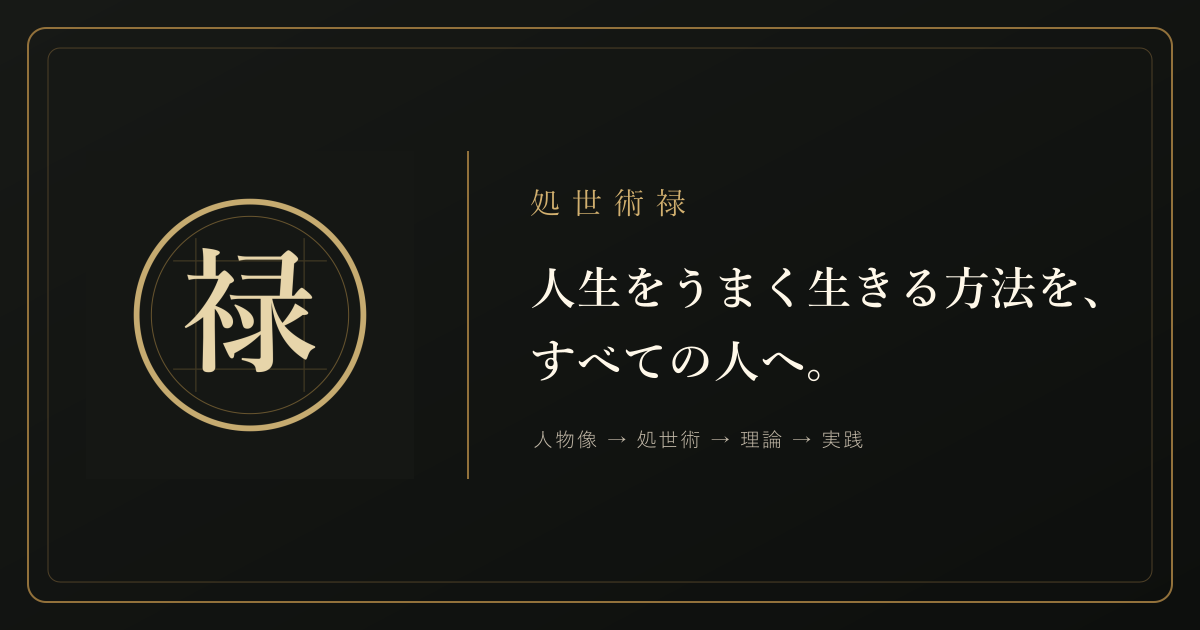
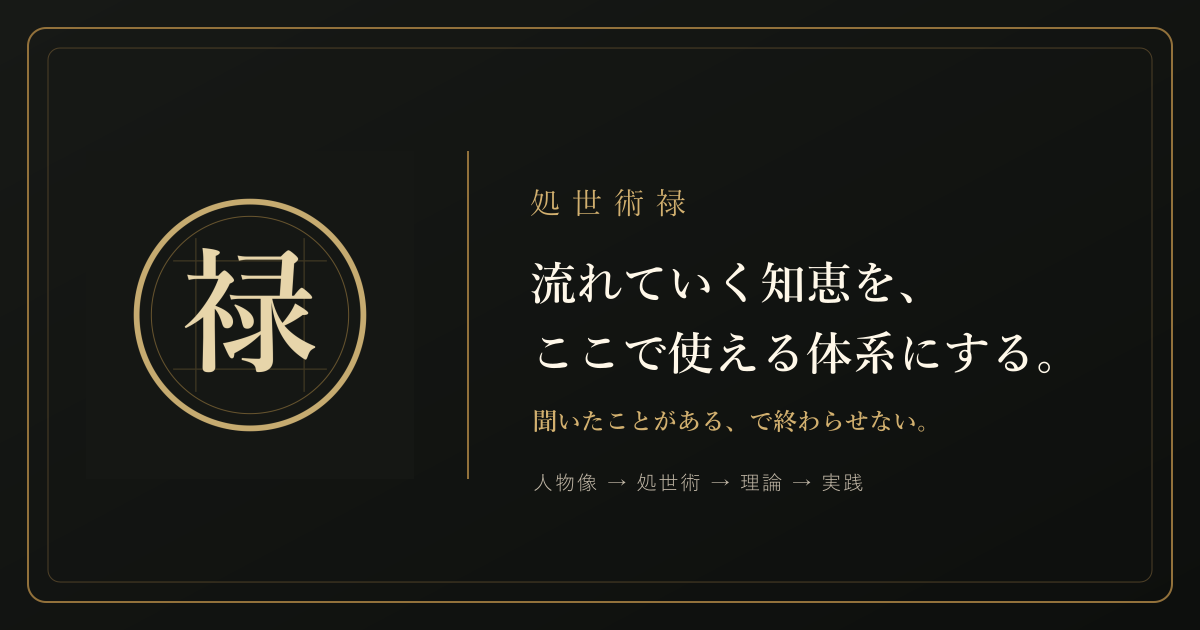
タブ切り替えUXと『処世術とは』SEOを改善 (#103)
* feat: refine tab motion and shoseijutsu SEO

* test: align welcome checks with new copy

---------

diff --git a/src/app/about/shoseijutsu.tsx b/src/app/about/shoseijutsu.tsx
@@ -1,4 +1,4 @@
-import { useRouter } from 'expo-router';
+import { Link, useRouter, type Href } from 'expo-router';
 import { Pressable, StyleSheet, View } from 'react-native';
 import { AppText, Screen } from '@/components/ui';
 import { SeoBreadcrumbs } from '@/components/seo-breadcrumbs';
@@ -6,9 +6,8 @@ import { colors, fonts } from '@/constants/theme';
 
 const chapters = [
   {
-    title: '処世術とは',
+    title: '処世術の意味',
     paragraphs: [
-      '処世術とは、社会の中で人や状況とうまく関わりながら、自分の目的や生活を成り立たせていくための知恵や方法のことです。',
       '「処世」は世の中で暮らしていくこと、「術」はそのための方法や技術を意味します。',
       '一般には、人間関係の築き方、コミュニケーション、仕事での立ち回り、感情のコントロール、失敗への対処、適切な距離の取り方など、社会生活を円滑にする幅広い知恵を指します。',
       '処世術という言葉には、ときに「要領よく立ち回る」「世渡りをする」といった意味合いもあります。しかし、本来扱える範囲はそれだけではありません。',
@@ -50,6 +49,13 @@ const pillars = [
   ['05', '何度でも使える', 'SNSや動画で偶然知った知識は、その場では納得しても、必要なときには思い出せないことがあります。処世術禄は、知識を一度消費して終わるものではなく、判断に迷ったときに何度でも戻ってこられる形で残します。必要なときに探し、読み返し、自分の判断に使う。流れて消える知識ではなく、蓄積される知恵にする。それが、処世術禄の役割です。'],
 ] as const;
 
+const learningPaths = [
+  { title: '人間関係の処世術', description: '会話・信頼・距離感を整える', href: '/interpersonal' },
+  { title: '仕事の処世術', description: '評価・合意・実行を成果につなげる', href: '/work' },
+  { title: '人生の処世術', description: '選択・不安・立て直しの軸を持つ', href: '/life' },
+  { title: '処世術を支える理論', description: '心理学・行動科学などから理解する', href: '/theories' },
+] as const satisfies ReadonlyArray<{ title: string; description: string; href: Href }>;
+
 const principles = [
   ['01', '処世術は好かれない', 'メタ発言抑制', '処世術そのものを過度に語ったり、「自分はこういう技術を使っている」とメタに説明した瞬間、自然な関係性や信頼が崩れることがある。処世術は思想として誇示するものではなく、必要な場面で静かに使うためのもの、という意味です。'],
   ['02', '処世術は万能ではない', 'コンテクスト依存性', '一つの方法を絶対視しないことが必要です。相手、場面、立場、力関係、時間軸、文化、目的が変われば、同じ行動でも意味や結果が変わります。処世術禄が「唯一の正解」を提示しないのは、そのためです。'],
@@ -71,16 +77,15 @@ export default function ShoseijutsuAboutScreen() {
   return (
     <Screen contentContainerStyle={styles.screenContent}>
       <View style={styles.article}>
-        <SeoBreadcrumbs items={[{ label: 'ホーム', href: '/' }, { label: '処世術禄について' }]} />
+        <SeoBreadcrumbs items={[{ label: 'ホーム', href: '/' }, { label: '処世術とは' }]} />
 
         <View style={styles.hero}>
-          <AppText style={styles.kicker}>処世術禄について</AppText>
-          <AppText accessibilityRole="header" style={styles.heroTitle}>人生をうまく生きる方法を、すべての人へ。</AppText>
-          <Paragraph>人生には、学校では教わらないことが多くあります。人との距離の取り方。信頼の築き方。仕事の進め方。失敗との付き合い方。自分自身の扱い方。</Paragraph>
-          <Paragraph>私たちは、こうした知恵を「なんとなく分かっていること」のまま流してしまいます。</Paragraph>
-          <Paragraph>処世術禄は、それらを集め、整理し、理論と結びつけ、必要なときに取り出して使える知恵へ変えるための場所です。</Paragraph>
-          <Paragraph emphasis>聞いたことがある、で終わらせない。</Paragraph>
-          <Paragraph>流れて消える人生の知識を、何度でも使える知恵に変える。それが、処世術禄の役割です。</Paragraph>
+          <AppText style={styles.kicker}>意味・必要性・身につけ方</AppText>
+          <AppText accessibilityRole="header" aria-level={1} style={styles.heroTitle}>処世術とは</AppText>
+          <AppText style={styles.heroDefinition}>処世術とは、社会の中で人や状況とうまく関わりながら、自分の目的や生活を成り立たせていくための知恵や方法のことです。</AppText>
+          <Paragraph>人間関係、コミュニケーション、仕事での立ち回り、感情のコントロール、失敗への対処など、社会生活をよりよくする幅広い知恵を含みます。</Paragraph>
+          <Paragraph emphasis>流れていく知恵を、ここで使える体系にする。</Paragraph>
+          <Paragraph>聞いたことがある、で終わらせない。処世術禄は、散らばった知恵を整理し、必要なときに取り出して使える形へ変える場所です。</Paragraph>
         </View>
 
         {chapters.map((chapter) => (
@@ -91,6 +96,24 @@ export default function ShoseijutsuAboutScreen() {
             <Paragraph>{chapter.closing}</Paragraph>
           </View>
         ))}
+
+        <View style={styles.chapter}>
+          <Heading>場面別に処世術を学ぶ</Heading>
+          <Paragraph>処世術は、置かれた場面によって使い方が変わります。今の課題に近い入口から、具体的な方法とその背景にある理論をたどれます。</Paragraph>
+          <View style={styles.learningLinks}>
+            {learningPaths.map((item) => (
+              <Link key={item.href} href={item.href} asChild>
+                <Pressable accessibilityRole="link" style={({ pressed }) => [styles.learningLink, pressed && styles.pressed]}>
+                  <View style={styles.learningLinkCopy}>
+                    <AppText style={styles.learningLinkTitle}>{item.title}</AppText>
+                    <AppText style={styles.learningLinkDescription}>{item.description}</AppText>
+                  </View>
+                  <AppText style={styles.learningLinkArrow}>›</AppText>
+                </Pressable>
+              </Link>
+            ))}
+          </View>
+        </View>
 
         <View style={styles.chapter}>
           <Heading>なぜ、処世術禄なのか</Heading>
@@ -152,8 +175,8 @@ export default function ShoseijutsuAboutScreen() {
           <Paragraph>状況を見て、考え、自分で選べることです。</Paragraph>
           <Paragraph>処世術禄が作ろうとしているのは、いわば人生をうまく生きるための思考のOSです。</Paragraph>
           <Paragraph>判断に迷ったとき、戻ってこられる場所。必要な知恵を探し、なぜそうするのかまで理解できる場所。</Paragraph>
-          <Paragraph emphasis>人生をうまく生きる方法を、すべての人へ。</Paragraph>
-          <Paragraph>処世術禄は、そのための知恵を編み続けます。</Paragraph>
+          <Paragraph emphasis>流れていく知恵を、ここで使える体系にする。</Paragraph>
+          <Paragraph>聞いたことがある、で終わらせない。処世術禄は、そのための知恵を編み続けます。</Paragraph>
         </View>
 
         <View style={styles.chapter}>
@@ -183,6 +206,7 @@ const styles = StyleSheet.create({
   hero: { paddingTop: 18, paddingBottom: 34, borderBottomWidth: 1, borderBottomColor: colors.line },
   kicker: { color: colors.gold, fontFamily: fonts.sans, fontSize: 12, lineHeight: 20, letterSpacing: 2.2, fontWeight: '700' },
   heroTitle: { marginTop: 18, marginBottom: 28, color: colors.ink, fontFamily: fonts.serif, fontSize: 32, lineHeight: 48, fontWeight: '700' },
+  heroDefinition: { marginBottom: 22, color: colors.ink, fontFamily: fonts.serif, fontSize: 20, lineHeight: 36, fontWeight: '700' },
   chapter: { paddingTop: 58, paddingBottom: 10 },
   h2: { marginBottom: 22, color: colors.ink, fontFamily: fonts.serif, fontSize: 25, lineHeight: 36, fontWeight: '700' },
   h3: { marginTop: 2, marginBottom: 10, color: colors.ink, fontFamily: fonts.serif, fontSize: 20, lineHeight: 30, fontWeight: '700' },
@@ -197,6 +221,12 @@ const styles = StyleSheet.create({
   concept: { marginBottom: 14, color: colors.gold, fontFamily: fonts.sans, fontSize: 12, lineHeight: 19, letterSpacing: 1.1 },
   motto: { marginTop: 28, paddingVertical: 23, borderTopWidth: 1, borderBottomWidth: 1, borderColor: colors.gold },
   mottoText: { color: colors.ink, fontFamily: fonts.serif, fontSize: 18, lineHeight: 32, letterSpacing: 1.6, textAlign: 'center' },
+  learningLinks: { marginTop: 14, borderTopWidth: 1, borderTopColor: colors.line },
+  learningLink: { minHeight: 82, paddingVertical: 16, paddingHorizontal: 2, flexDirection: 'row', alignItems: 'center', borderBottomWidth: 1, borderBottomColor: colors.line },
+  learningLinkCopy: { flex: 1, minWidth: 0, paddingRight: 18 },
+  learningLinkTitle: { color: colors.ink, fontFamily: fonts.serif, fontSize: 18, lineHeight: 28, fontWeight: '700' },
+  learningLinkDescription: { marginTop: 3, color: colors.inkSoft, fontFamily: fonts.sans, fontSize: 14, lineHeight: 22 },
+  learningLinkArrow: { color: colors.gold, fontFamily: fonts.serif, fontSize: 30, lineHeight: 34 },
   notice: { marginTop: 52, paddingTop: 28, borderTopWidth: 1, borderTopColor: colors.line },
   noticeParagraph: { fontSize: 14, lineHeight: 25 },
   settingsLink: { alignSelf: 'flex-start', marginTop: 32, paddingVertical: 10, paddingHorizontal: 2 },

diff --git a/src/components/seo-meta.tsx b/src/components/seo-meta.tsx
@@ -7,8 +7,8 @@ import { getTheorySeoCopy, isLockedTheoryShell } from '@/data/theory-display';
 
 const siteUrl = 'https://app.shoseijutsuroku.com';
 const brand = '処世術禄';
-const homeTitle = '処世術禄｜人生をうまく生きる方法を、すべての人へ。';
-const homeDescription = '聞いたことがある、で終わらせない。心理学・行動科学などの理論と紐づけ、体系化した処世術を、人生・仕事・人間関係に使える知恵として届けます。';
+const homeTitle = '処世術禄｜処世術を人生・仕事・人間関係に使える体系へ';
+const homeDescription = '処世術を、人間関係・仕事・人生で使える知恵へ。心理学・行動科学などの理論と結びつけ、流れていく知恵を何度でも使える体系として届けます。';
 const image = `${siteUrl}/og.png`;
 
 type PageMeta = {
@@ -37,7 +37,7 @@ const fixed: Record<string, [string, string, boolean]> = {
   '/life': ['人生術｜不安・選択・立て直しを整える処世術', '選択、習慣、不安、回復、人生設計まで、日々の判断を整える処世術を人物像から体系的に探せます。', true],
   '/app': ['処世術禄アプリ｜知恵を、迷ったときに使える判断へ', '処世術禄のiOSアプリは、処世術と理論を保存・学習・ケース問題で自分の判断にしていくためのアプリです。', true],
   '/learn': ['場面から処世術を学ぶ', '人間関係・仕事・人生の具体的な場面から一手を選び、処世術と理論を実践につなげて学べます。', true],
-  '/about/shoseijutsu': ['処世術とは？意味・考え方と処世術禄の五大原則', '処世術とは、人生・仕事・人間関係をよりよく生きるための知恵と方法です。処世術の意味や必要性、処世術禄が有効な理由、五大原則、知識を使える判断原則へ変える思想を紹介します。', true],
+  '/about/shoseijutsu': ['処世術とは｜意味・必要性・身につけ方をわかりやすく解説', '処世術とは、社会の中で人や状況とうまく関わり、自分の目的や生活を成り立たせるための知恵や方法です。言葉の意味、人を操る技術との違い、必要性、身につけ方を具体例とともに解説します。', true],
   '/legal/about': ['処世術禄について', '処世術禄についての新しいページへ移動します。', false],
   '/legal/faq': ['よくある質問', '処世術禄の使い方、無料版と完全版、データの保存や利用環境についてのよくある質問です。', true],
 };
@@ -66,14 +66,14 @@ function getMeta(rawPathname: string): PageMeta {
   };
   if (pathname === '/about/shoseijutsu') return {
     ...fallback,
-    title: '処世術とは？意味・考え方と処世術禄の五大原則｜処世術禄',
-    description: '処世術とは、人生・仕事・人間関係をよりよく生きるための知恵と方法です。処世術の意味や必要性、処世術禄が有効な理由、五大原則、知識を使える判断原則へ変える思想を紹介します。',
+    title: '処世術とは｜意味・必要性・身につけ方をわかりやすく解説｜処世術禄',
+    description: '処世術とは、社会の中で人や状況とうまく関わり、自分の目的や生活を成り立たせるための知恵や方法です。言葉の意味、人を操る技術との違い、必要性、身につけ方を具体例とともに解説します。',
     indexable: true,
     type: 'article',
     pageType: 'Article',
     canonicalPath: pathname,
-    entity: { headline: '処世術とは？意味・考え方と処世術禄の五大原則', description: '処世術の意味・必要性と、処世術禄の思想を紹介します。', about: ['処世術', '処世術禄', '人生', '人間関係', '仕事'] },
-    crumbs: [crumb('ホーム', '/'), crumb('処世術禄について', pathname)],
+    entity: { headline: '処世術とは｜意味・必要性・身につけ方', description: '処世術の意味、人を操る技術との違い、必要性、身につけ方を解説します。', about: ['処世術', '世渡り', '人間関係', '仕事', '人生'] },
+    crumbs: [crumb('ホーム', '/'), crumb('処世術とは', pathname)],
   };
   if (pathname === '/legal/about') return {
     ...fallback,
@@ -139,7 +139,8 @@ function setJsonLd(meta: PageMeta) {
     { '@type': 'BreadcrumbList', '@id': `${url}#breadcrumb`, itemListElement: meta.crumbs.map((item, index) => ({ '@type': 'ListItem', position: index + 1, name: item.name, item: canonical(item.path) })) },
   ];
   if (meta.entity && meta.pageType === 'CreativeWork') graph.push({ '@type': 'CreativeWork', '@id': `${url}#creativework`, headline: meta.entity.headline, description: meta.entity.description, inLanguage: 'ja', about: meta.entity.about, isPartOf: { '@id': `${siteUrl}/#website` } });
-  if (meta.entity && meta.pageType === 'Article') graph.push({ '@type': 'Article', '@id': `${url}#article`, headline: meta.entity.headline, description: meta.entity.description, inLanguage: 'ja', about: meta.entity.about, mainEntityOfPage: { '@id': `${url}#webpage` }, publisher: { '@id': `${siteUrl}/#organization` } });
+  if (meta.entity && meta.pageType === 'Article') graph.push({ '@type': 'Article', '@id': `${url}#article`, headline: meta.entity.headline, description: meta.entity.description, inLanguage: 'ja', about: meta.canonicalPath === '/about/shoseijutsu' ? { '@id': `${url}#term` } : meta.entity.about, dateModified: meta.canonicalPath === '/about/shoseijutsu' ? '2026-09-22' : undefined, mainEntityOfPage: { '@id': `${url}#webpage` }, publisher: { '@id': `${siteUrl}/#organization` } });
+  if (meta.canonicalPath === '/about/shoseijutsu') graph.push({ '@type': 'DefinedTerm', '@id': `${url}#term`, url, name: '処世術', alternateName: ['世渡り術', '処世の知恵'], description: '社会の中で人や状況とうまく関わりながら、自分の目的や生活を成り立たせていくための知恵や方法。' });
   if (meta.canonicalPath === '/app') graph.push({ '@type': 'SoftwareApplication', '@id': `${url}#software`, name: '処世術禄', applicationCategory: 'LifestyleApplication', operatingSystem: 'iOS', url, installUrl: 'https://apps.apple.com/app/id6810376658', inLanguage: 'ja', description: meta.description, publisher: { '@id': `${siteUrl}/#organization` } });
   let element = document.head.querySelector<HTMLScriptElement>('script[data-seo-jsonld]');
   if (!element) {

diff --git a/tests/e2e/seo.spec.ts b/tests/e2e/seo.spec.ts
@@ -2,8 +2,9 @@ import { expect, test } from '@playwright/test';
 
 test('top page exposes the requested search and social metadata', async ({ page }) => {
   await page.goto('/');
-  await expect(page).toHaveTitle('処世術禄｜人生をうまく生きる方法を、すべての人へ。');
-  await expect(page.locator('meta[name="description"]')).toHaveAttribute('content', '聞いたことがある、で終わらせない。心理学・行動科学などの理論と紐づけ、体系化した処世術を、人生・仕事・人間関係に使える知恵として届けます。');
+  await expect(page).toHaveTitle('処世術禄｜処世術を人生・仕事・人間関係に使える体系へ');
+  await expect(page.locator('meta[name="description"]')).toHaveAttribute('content', '処世術を、人間関係・仕事・人生で使える知恵へ。心理学・行動科学などの理論と結びつけ、流れていく知恵を何度でも使える体系として届けます。');
+  await expect(page.getByRole('heading', { name: /流れていく知恵を、.*ここで使える.*体系にする。/ })).toBeVisible();
   await expect(page.locator('link[rel="canonical"]')).toHaveAttribute('href', 'https://app.shoseijutsuroku.com/');
   await expect(page.locator('meta[property="og:site_name"]')).toHaveAttribute('content', '処世術禄');
   const jsonLd = await page.locator('script[data-seo-jsonld]').evaluate((element) => element.textContent ?? '');
@@ -32,8 +33,8 @@ test('private and interactive utility pages remain noindex', async ({ page }) =>
 
 test('the shoseijutsu about page is an indexable standalone article', async ({ page }) => {
   await page.goto('/about/shoseijutsu');
-  await expect(page).toHaveTitle('処世術とは？意味・考え方と処世術禄の五大原則｜処世術禄');
-  await expect(page.locator('meta[name="description"]')).toHaveAttribute('content', /処世術とは、人生・仕事・人間関係/);
+  await expect(page).toHaveTitle('処世術とは｜意味・必要性・身につけ方をわかりやすく解説｜処世術禄');
+  await expect(page.locator('meta[name="description"]')).toHaveAttribute('content', /処世術とは、社会の中で人や状況とうまく関わり/);
   await expect(page.locator('meta[name="robots"]')).toHaveAttribute('content', /index,follow/);
   await expect(page.locator('link[rel="canonical"]')).toHaveAttribute('href', 'https://app.shoseijutsuroku.com/about/shoseijutsu');
   await expect(page.getByRole('heading', { name: '処世術とは' })).toBeVisible();
@@ -42,6 +43,8 @@ test('the shoseijutsu about page is an indexable standalone article', async ({ p
   const jsonLd = await page.locator('script[data-seo-jsonld]').evaluate((element) => element.textContent ?? '');
   expect(jsonLd).toContain('BreadcrumbList');
   expect(jsonLd).toContain('Article');
+  expect(jsonLd).toContain('DefinedTerm');
+  await expect(page.getByRole('link', { name: /人間関係の処世術/ })).toHaveAttribute('href', '/interpersonal');
   await page.setViewportSize({ width: 390, height: 844 });
   const mobileMetrics = await page.evaluate(() => ({ innerWidth, scrollWidth: document.documentElement.scrollWidth }));
   expect(mobileMetrics.scrollWidth).toBeLessThanOrEqual(mobileMetrics.innerWidth);

diff --git a/src/app/welcome.tsx b/src/app/welcome.tsx
@@ -69,12 +69,9 @@ export default function Welcome() {
             ))}
             <View style={[styles.heroCopy, desktop && styles.heroCopyDesktop, compact && styles.heroCopyCompact]}>
               <AppText accessibilityRole="header" aria-level={1} variant="serif" style={[styles.heroTitle, desktop && styles.heroTitleDesktop, compact && styles.heroTitleCompact]}>
-                {desktop ? `人生をうまく生きる方法を、\nすべての人へ。` : `人生をうまく生きる\n方法を、すべての人へ。`}
+                {desktop ? `流れていく知恵を、\nここで使える体系にする。` : `流れていく知恵を、\nここで使える\n体系にする。`}
               </AppText>
               <View style={styles.heroUnderline} />
-              <AppText variant="serif" style={[styles.heroLead, desktop && styles.heroLeadDesktop, compact && styles.heroLeadCompact]}>
-                {desktop ? '流れていく知恵を、ここで使える体系にする。' : '流れていく知恵を、\nここで使える体系にする。'}
-              </AppText>
               <View style={[styles.heroStatement, desktop && styles.heroStatementDesktop, compact && styles.heroStatementCompact]}>
                 <AppText variant="serif" style={[styles.heroStatementText, desktop && styles.heroStatementTextDesktop]}>{desktop ? '聞いたことがある、で終わらせない。' : '聞いたことがある、\nで終わらせない。'}</AppText>
               </View>
@@ -281,13 +278,10 @@ const styles = StyleSheet.create({
   heroCopy: { width: '100%', maxWidth: 690, alignItems: 'center', zIndex: 2 },
   heroCopyDesktop: { maxWidth: 800 },
   heroCopyCompact: { transform: [{ scale: 0.92 }] },
-  heroTitle: { color: '#F6F0E4', fontSize: 29, lineHeight: 44, letterSpacing: 1.4, textAlign: 'center', fontWeight: '400' },
+  heroTitle: { color: '#F6F0E4', fontSize: 29, lineHeight: 44, letterSpacing: 1.4, textAlign: 'center', fontWeight: '700' },
   heroTitleDesktop: { fontSize: 49, lineHeight: 68, letterSpacing: 3 },
   heroTitleCompact: { fontSize: 27, lineHeight: 40 },
   heroUnderline: { width: 124, height: 3, marginTop: 9, borderRadius: 9, backgroundColor: '#BD8119', transform: [{ rotate: '-2deg' }] },
-  heroLead: { marginTop: 27, color: '#DAD2C4', fontSize: 16, lineHeight: 27, letterSpacing: 1.25, textAlign: 'center', fontWeight: '500' },
-  heroLeadDesktop: { marginTop: 28, fontSize: 20, lineHeight: 33, letterSpacing: 1.8 },
-  heroLeadCompact: { marginTop: 22, fontSize: 15, lineHeight: 23 },
   heroStatement: { marginTop: 31, paddingHorizontal: 20, paddingVertical: 13, borderTopWidth: 1, borderBottomWidth: 1, borderColor: '#B68A3C', backgroundColor: 'rgba(6,7,7,0.18)' },
   heroStatementDesktop: { marginTop: 30, paddingHorizontal: 28, paddingVertical: 15 },
   heroStatementCompact: { marginTop: 25, paddingHorizontal: 16, paddingVertical: 10 },

diff --git a/src/components/route-transition.tsx b/src/components/route-transition.tsx
@@ -5,7 +5,7 @@ import { colors } from '@/constants/theme';
 import { motion } from '@/constants/motion';
 import { useReducedMotion } from '@/hooks/use-reduced-motion';
 
-const tabPaths = new Set(['/', '/discover', '/learn', '/my-os']);
+const tabPaths = ['/', '/discover', '/learn', '/my-os'] as const;
 type RouteState = { type?: string; index?: number; routes: readonly { state?: RouteState }[] };
 
 function stackDepth(state: RouteState | undefined): number {
@@ -39,15 +39,21 @@ export function RouteTransition({ children, disabled = false }: PropsWithChildre
       const element = viewport.current as unknown as HTMLElement | null;
       if (!element?.animate) return;
 
-      const tabs = tabPaths.has(before.path) && tabPaths.has(pathname);
+      const previousTab = tabPaths.indexOf(before.path as (typeof tabPaths)[number]);
+      const nextTab = tabPaths.indexOf(pathname as (typeof tabPaths)[number]);
+      const tabs = previousTab >= 0 && nextTab >= 0;
       const returning = depth < before.depth;
       const purchase = pathname === '/upgrade' || (before.path === '/upgrade' && returning);
       const transform = tabs
-        ? `translateY(${motion.tabDistance}px)`
+        ? `translateX(${nextTab > previousTab ? motion.tabDistance : -motion.tabDistance}px)`
         : purchase
           ? `translateY(${returning ? -motion.purchaseDistance : motion.purchaseDistance}px)`
           : `translateX(${returning ? -motion.detailDistance : motion.detailDistance}px)`;
-      animation = element.animate([
+      animation = element.animate(tabs ? [
+        { opacity: 0.42, transform },
+        { opacity: 0.88, transform: 'translateX(2px)', offset: 0.72 },
+        { opacity: 1, transform: 'translateX(0)' },
+      ] : [
         { opacity: 0.35, transform },
         { opacity: 1, transform: 'translate(0, 0)' },
       ], { duration: tabs ? motion.tabDuration : motion.detailDuration, easing: motion.easing });

diff --git a/tests/e2e/route-transitions.spec.ts b/tests/e2e/route-transitions.spec.ts
@@ -26,11 +26,17 @@ test(`navigation at ${width}px animates content, keeps chrome fixed, and reverse
 
   await nav.getByRole('link', { name: /^学ぶ/ }).click();
   await expect(page).toHaveURL(/\/learn$/);
-  await expect(content).toHaveAttribute('data-last-motion', /translateY\(4px\)/);
-  await expect(content).toHaveAttribute('data-last-motion-duration', '220');
+  await expect(content).toHaveAttribute('data-last-motion', /translateX\(14px\)/);
+  await expect(content).toHaveAttribute('data-last-motion-duration', '240');
   expect(await header.evaluate((element, previous) => element === previous, originalHeader)).toBe(true);
   expect(await header.boundingBox()).toEqual(headerBox);
   expect(await nav.boundingBox()).toEqual(navBox);
+
+  await nav.getByRole('link', { name: /^探す/ }).click();
+  await expect(page).toHaveURL(/\/discover$/);
+  await expect(content).toHaveAttribute('data-last-motion', /translateX\(-14px\)/);
+  await nav.getByRole('link', { name: /^学ぶ/ }).click();
+  await expect(page).toHaveURL(/\/learn$/);
 
   await page.getByRole('button', { name: '設定を開く', exact: true }).click();
   await expect(page).toHaveURL(/\/settings$/);

diff --git a/src/app/+html.tsx b/src/app/+html.tsx
@@ -3,8 +3,8 @@ import type { PropsWithChildren } from 'react';
 
 const basePath = '';
 const siteUrl = 'https://app.shoseijutsuroku.com';
-const siteTitle = '処世術禄｜人生をうまく生きる方法を、すべての人へ。';
-const siteDescription = '聞いたことがある、で終わらせない。心理学・行動科学などの理論と紐づけ、体系化した処世術を、人生・仕事・人間関係に使える知恵として届けます。';
+const siteTitle = '処世術禄｜処世術を人生・仕事・人間関係に使える体系へ';
+const siteDescription = '処世術を、人間関係・仕事・人生で使える知恵へ。心理学・行動科学などの理論と結びつけ、流れていく知恵を何度でも使える体系として届けます。';
 
 export default function Root({ children }: PropsWithChildren) {
   return (

diff --git a/public/sw.js b/public/sw.js
@@ -1,5 +1,5 @@
 // Automatically replaced by scripts/stamp-pwa-cache.mjs before every web export.
-const VERSION = 'roku-f2d65e4b16d3';
+const VERSION = 'roku-fcb675008f02';
 const BASE = '';
 const STATIC_CACHE = `${VERSION}-static`;
 const RUNTIME_CACHE = `${VERSION}-runtime`;

diff --git a/src/constants/motion.ts b/src/constants/motion.ts
@@ -1,7 +1,7 @@
 export const motion = {
-  tabDuration: 220,
+  tabDuration: 240,
   detailDuration: 300,
-  tabDistance: 4,
+  tabDistance: 14,
   detailDistance: 16,
   purchaseDistance: 20,
   easing: 'cubic-bezier(0.22, 1, 0.36, 1)',
